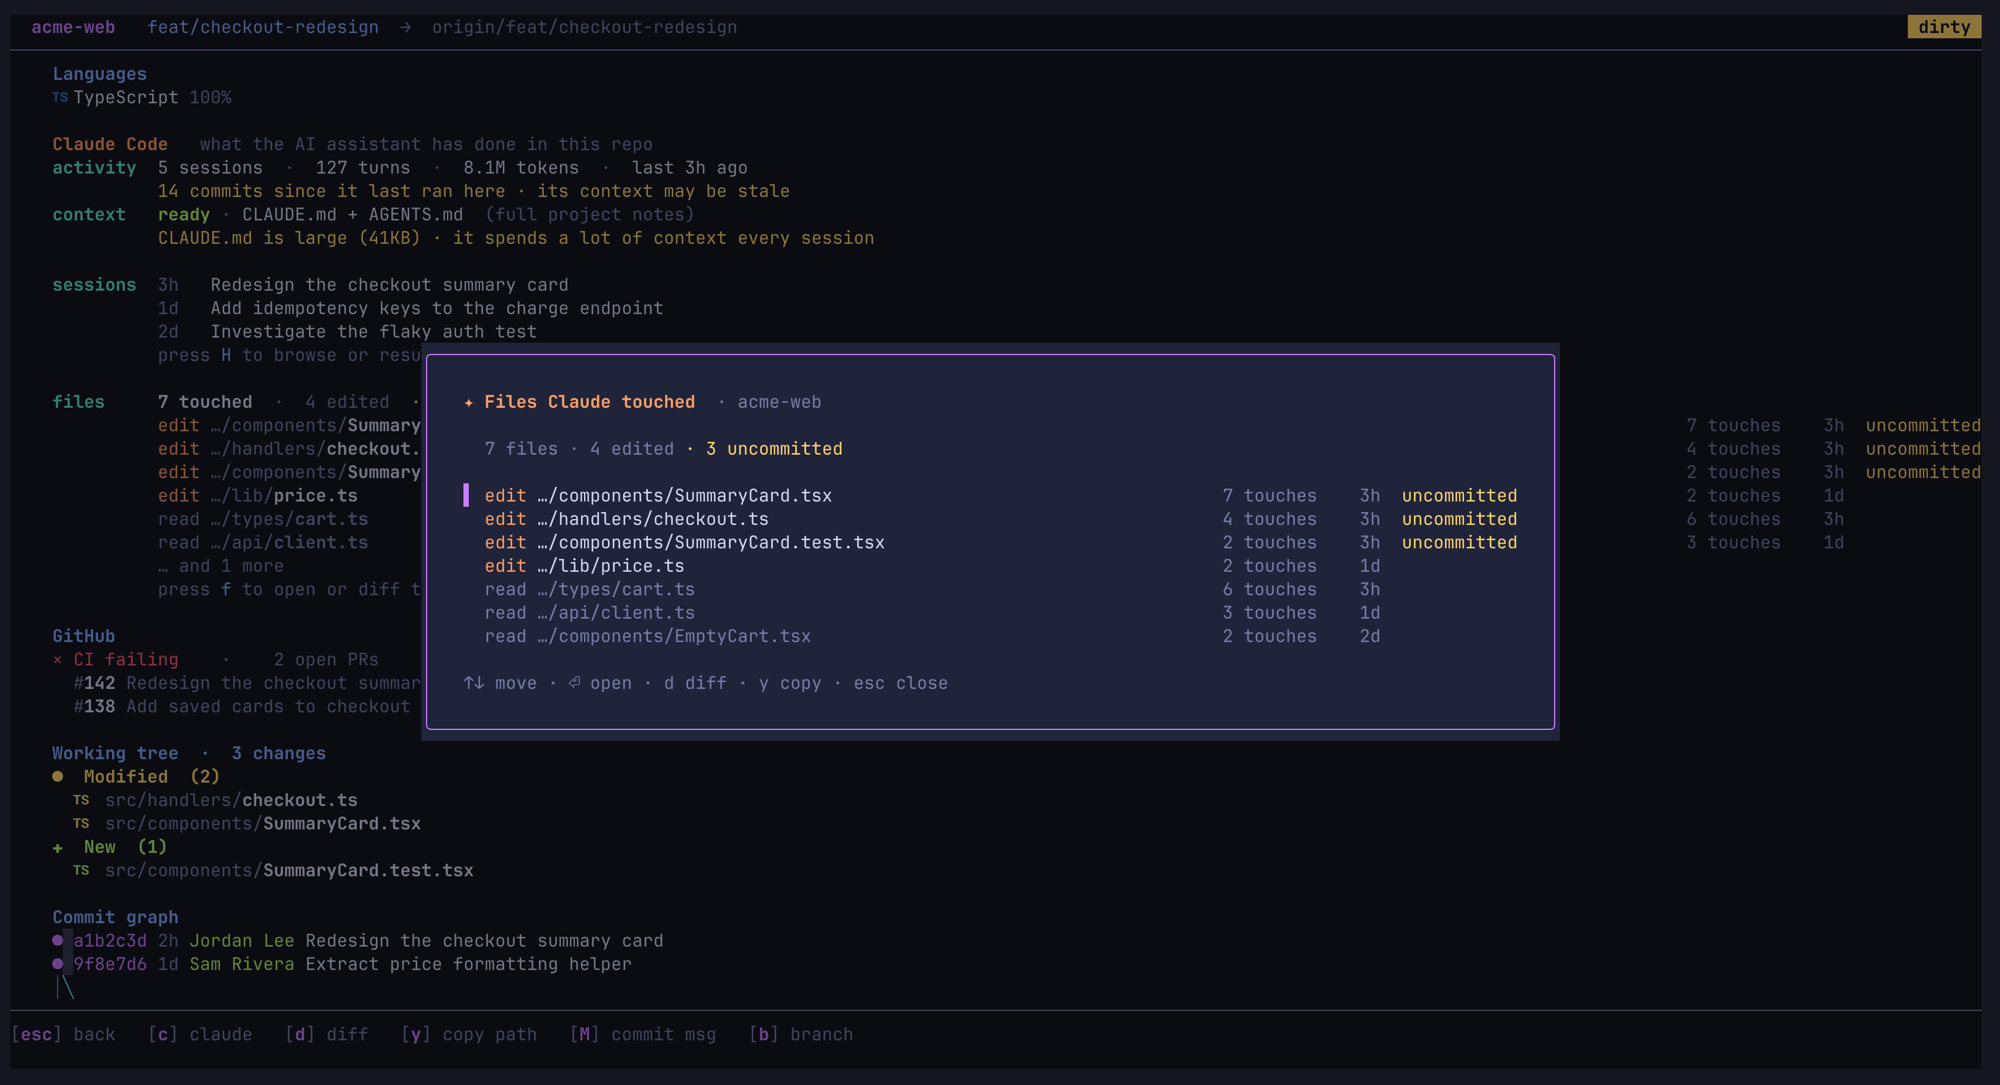
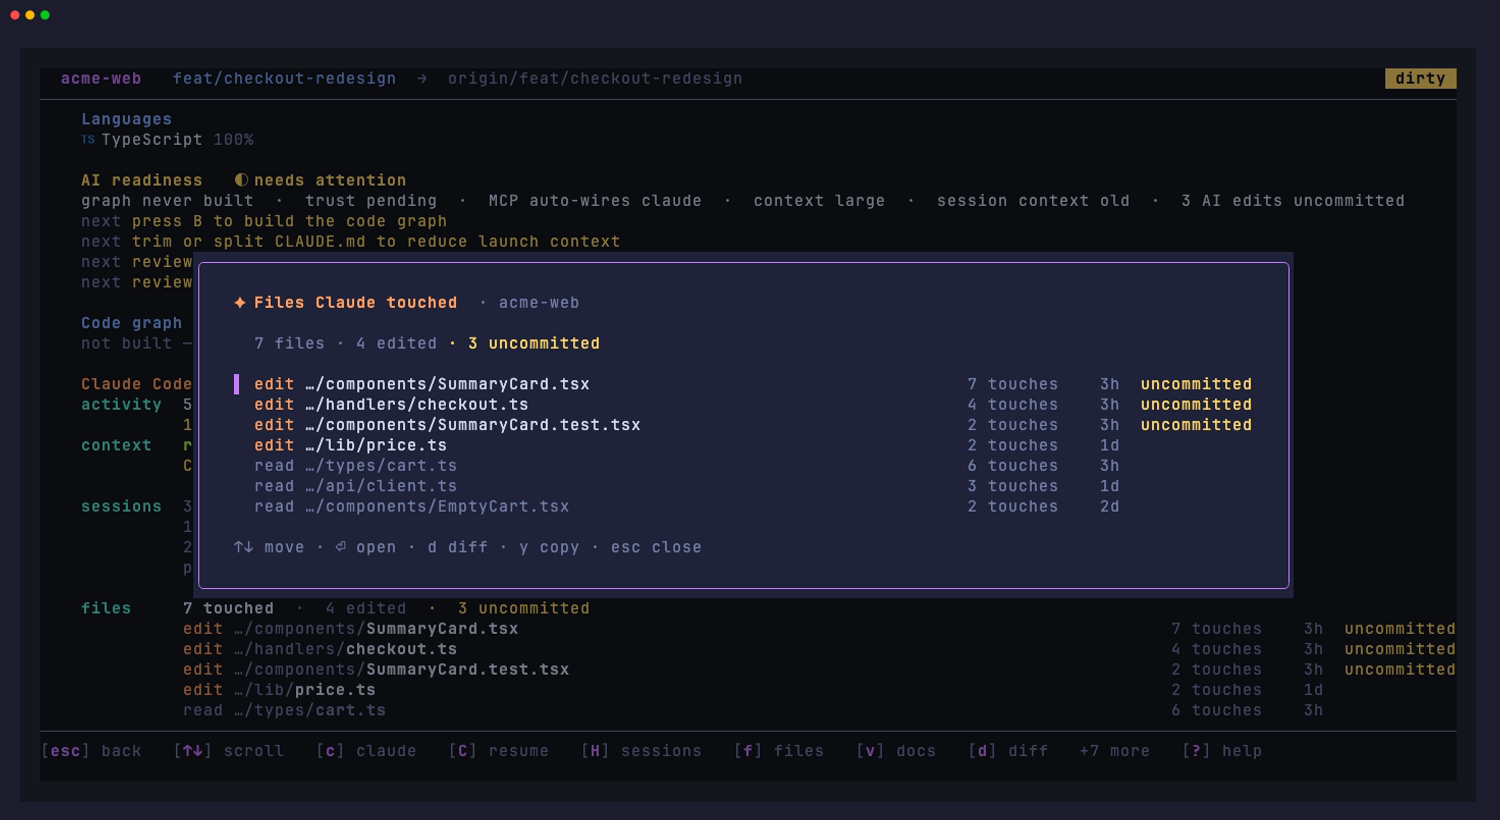
v0.7.0 release prep: CLI agent parity, fresh screenshots, env var docs (#3)
* fix: close the CLI agent-parity gaps for v0.7.0

Release-readiness audit fixes:
- scan --json never populated the per-agent fields (cc_* and codex_*); the CLI
  now runs the same cheap filesystem summaries the TUI does
- orchard stats gains the codex usage line and a codex turns heatmap
- orchard preview --detail now loads the Codex footprint in the live path, not
  just demo mode
- the demo-mode update nudge derives the next minor from the running version
  instead of a hardcoded tag that would go stale after release
- stale wording: wireGraphMCP's comment said Claude-only (it wires both), and
  the instructions hint now notes Codex reads AGENTS.md natively

* docs: refresh static screenshots and document the remaining env vars

The four README screenshots predated the AGENT column, the code-graph section,
and the Codex footprint; re-capture them in demo mode via a new VHS tape
(docs/screenshots.tape) so they are reproducible. Document ORCHARD_AI_CMD,
ORCHARD_IDLE_SECS, ORCHARD_TERMINAL_CMD, ORCHARD_DEMO, and NO_COLOR.

diff --git a/main.go b/main.go
@@ -20,6 +20,7 @@ import (
 	"github.com/charmbracelet/lipgloss"
 	"github.com/muesli/termenv"
 	"github.com/prakashkurup/orchard/internal/claude"
+	"github.com/prakashkurup/orchard/internal/codex"
 	"github.com/prakashkurup/orchard/internal/config"
 	orchardgit "github.com/prakashkurup/orchard/internal/git"
 	orchardgithub "github.com/prakashkurup/orchard/internal/github"
@@ -144,6 +145,11 @@ func runScan(args []string, cfg config.Config) error {
 	repos, err := orchardgit.Scan(ctx, *root, *concurrency)
 	if err != nil {
 		return err
+	}
+	// agent summaries (cheap, filesystem-only) so the JSON carries cc_*/codex_*
+	for i := range repos {
+		repos[i].CCSessions, repos[i].CCLast = claude.Summary(repos[i].Path)
+		repos[i].CodexSessions, repos[i].CodexLast = codex.Summary(repos[i].Path)
 	}
 	if *jsonOut {
 		return printJSON(repos)
@@ -822,10 +828,17 @@ func runStats(args []string, cfg config.Config) error {
 		fmt.Printf("\n  %s   %s\n", st(cMuted).Render("claude"),
 			st(cMuted).Render(fmt.Sprintf("%d sessions · %d turns · %s tokens", u.TotalSessions, u.TotalTurns, humanInt(u.TotalTokens))))
 	}
+	if u := codex.Aggregate(targets); u.TotalSessions > 0 {
+		fmt.Printf("  %s    %s\n", st(cMuted).Render("codex"),
+			st(cMuted).Render(fmt.Sprintf("%d sessions · %d turns · %s tokens", u.TotalSessions, u.TotalTurns, humanInt(u.TotalTokens))))
+	}
 	if hm := harvestHeatmap(ctx, repos); hm != "" {
 		fmt.Print(hm)
 	}
 	if hm := claudeHeatmap(repos); hm != "" {
+		fmt.Print(hm)
+	}
+	if hm := codexHeatmap(repos); hm != "" {
 		fmt.Print(hm)
 	}
 	fmt.Println()
@@ -915,6 +928,24 @@ func claudeHeatmap(repos []repo.Repo) string {
 	}
 	return renderHeatmap("claude", fmt.Sprintf("%d turns in the last %d weeks", total, heatWeeks),
 		counts, total, [3]int{20, 50, 100}, [4]string{"#7A4A1E", "#B5742E", "#E0973F", "#FF9E64"})
+}
+
+// codexHeatmap is your Codex turns per day over the last heatWeeks weeks.
+func codexHeatmap(repos []repo.Repo) string {
+	cutoff := time.Now().AddDate(0, 0, -7*heatWeeks)
+	counts := map[string]int{}
+	total := 0
+	for _, r := range repos {
+		for _, s := range codex.Sessions(r.Path, 0) {
+			if s.Modified.Before(cutoff) {
+				continue
+			}
+			counts[s.Modified.Format("2006-01-02")] += s.Assistant
+			total += s.Assistant
+		}
+	}
+	return renderHeatmap("codex", fmt.Sprintf("%d turns in the last %d weeks", total, heatWeeks),
+		counts, total, [3]int{20, 50, 100}, [4]string{"#14532D", "#15803D", "#16A34A", "#19C37D"})
 }
 
 // humanInt formats a large count compactly: 1234 -> "1.2k", 1234567 -> "1.2M".

diff --git a/internal/tui/updatecheck.go b/internal/tui/updatecheck.go
@@ -2,6 +2,9 @@ package tui
 
 import (
 	"context"
+	"fmt"
+	"strconv"
+	"strings"
 	"time"
 
 	tea "github.com/charmbracelet/bubbletea"
@@ -13,9 +16,24 @@ type updateMsg struct {
 	available bool
 }
 
+// demoNextTag fabricates a plausible "newer" tag for demo-mode screenshots: the
+// running version's next minor, so the update nudge never goes stale.
+func demoNextTag(version string) string {
+	v := strings.TrimPrefix(update.Current(version), "v")
+	parts := strings.SplitN(v, ".", 3)
+	if len(parts) >= 2 {
+		if major, err1 := strconv.Atoi(parts[0]); err1 == nil {
+			if minor, err2 := strconv.Atoi(parts[1]); err2 == nil {
+				return fmt.Sprintf("v%d.%d.0", major, minor+1)
+			}
+		}
+	}
+	return "v0.7.0"
+}
+
 func updateCheckCmd(version string) tea.Cmd {
 	if demoMode() {
-		return func() tea.Msg { return updateMsg{tag: "v0.7.0", available: true} }
+		return func() tea.Msg { return updateMsg{tag: demoNextTag(version), available: true} }
 	}
 	return func() tea.Msg {
 		ctx, cancel := context.WithTimeout(context.Background(), 5*time.Second)

diff --git a/internal/tui/model.go b/internal/tui/model.go
@@ -479,7 +479,7 @@ func PreviewDetail(root string, concurrency, width, height int, name string) (st
 		info, _ := orchardgit.Detail(ctx, target)
 		m.instructionsByPath = map[string]instrState{target.Path: detectInstr(target.Path)}
 		sessions := claude.Sessions(target.Path, 10)
-		m.detail = &detailState{repo: target, info: info, langs: lang.Detect(ctx, target.Path), sessions: sessions, commitsSince: commitsSinceClaude(ctx, target.Path, sessions), touched: claude.TouchMap(target.Path, touchMapSessions)}
+		m.detail = &detailState{repo: target, info: info, langs: lang.Detect(ctx, target.Path), sessions: sessions, commitsSince: commitsSinceClaude(ctx, target.Path, sessions), touched: claude.TouchMap(target.Path, touchMapSessions), codexSessions: codex.Sessions(target.Path, 10), codexTouched: codex.TouchMap(target.Path, touchMapSessions)}
 	}
 	m.setDetailContent()
 	return m.View(), nil

diff --git a/internal/tui/claudepanel.go b/internal/tui/claudepanel.go
@@ -16,9 +16,9 @@ import (
 )
 
 // wireGraphMCP registers orchard's code-graph MCP server into configRepo's
-// .mcp.json before a Claude Code launch, serving the graphs of graphRepos (one
-// repo normally; several for a cross-repo `A` session). Best-effort, idempotent,
-// Claude-only; set ORCHARD_GRAPH_MCP=0 to disable.
+// agent config (.mcp.json for Claude Code, .codex/config.toml for Codex) before
+// a launch, serving the graphs of graphRepos (one repo normally; several for a
+// cross-repo `A` session). Idempotent; set ORCHARD_GRAPH_MCP=0 to disable.
 func (m model) wireGraphMCP(configRepo string, graphRepos []string) error {
 	if len(graphRepos) == 0 || !m.graphWiringEnabled() {
 		return nil

diff --git a/README.md b/README.md
@@ -285,6 +285,7 @@ The `orchard config` **command** doesn't change anything: it prints the resolved
 
 - `ORCHARD_ROOT` - default repo folder.
 - `ORCHARD_CONFIG` - explicit config file path.
+- `ORCHARD_AI_CMD` - explicit agent command for the agent keys (otherwise the first of `claude` / `codex` on `PATH`).
 - `GITHUB_TOKEN` - token for `orchard clone` (falls back to `gh auth token`).
 - `ORCHARD_ADDDIR_MEMORY` - set to `0` to stop a cross-repo Claude session (`A`) from loading the added repos' `CLAUDE.md` (on by default).
 - `ORCHARD_GRAPH_MCP` - set to `0` to disable automatic graph MCP wiring when launching an agent.
@@ -293,6 +294,10 @@ The `orchard config` **command** doesn't change anything: it prints the resolved
 - `ORCHARD_NO_MOUSE` - set to `1` to disable mouse capture (so your terminal's native text selection works).
 - `ORCHARD_FETCH_SECS` - while live refresh is on, how often (seconds) to fetch remotes in the background so ahead/behind stay current. Default `300` (5 min); `0` disables background fetching (fetch on demand with `f` / `F`).
 - `ORCHARD_NO_ANIM` - set to `1` to turn off motion (the launch intro, the row cascade, the count-up, and the "just tended" row pulse).
+- `ORCHARD_IDLE_SECS` - seconds of idle before the petal screensaver wakes (default `600`; `0` disables; `Z` starts it on demand).
+- `ORCHARD_TERMINAL_CMD` - custom new-tab launch template when your terminal is not auto-detected.
+- `ORCHARD_DEMO` - set to `1` to render fictional demo data (for clean screenshots and recordings).
+- `NO_COLOR` - disable colored CLI output ([no-color.org](https://no-color.org)).
 
 ### Advanced config file
 
